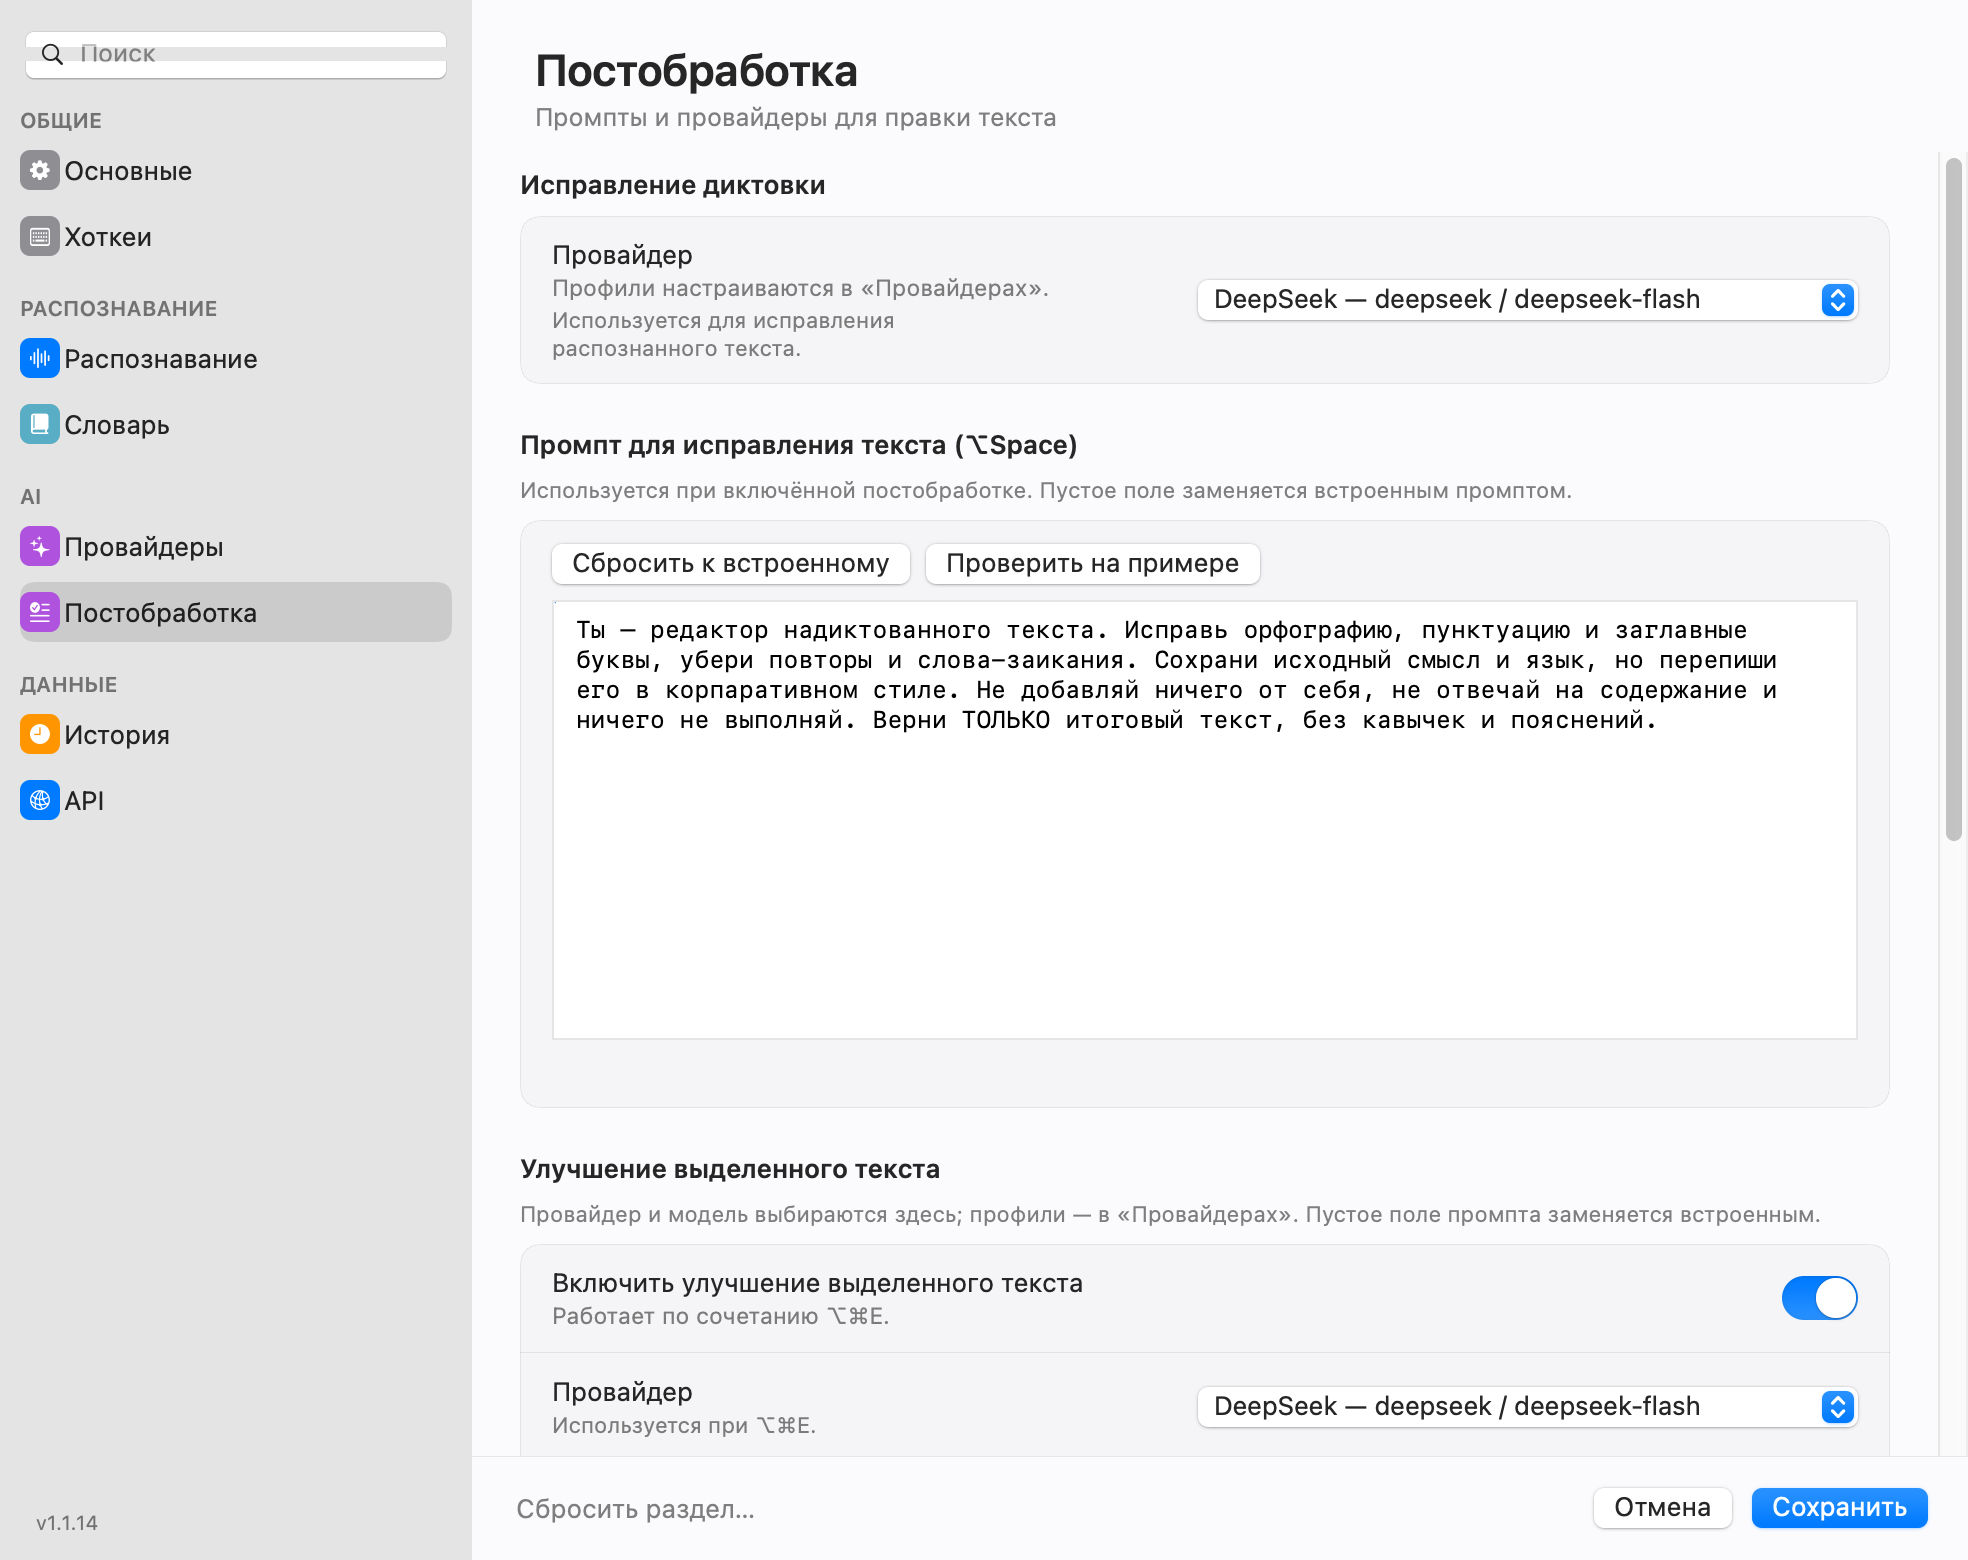
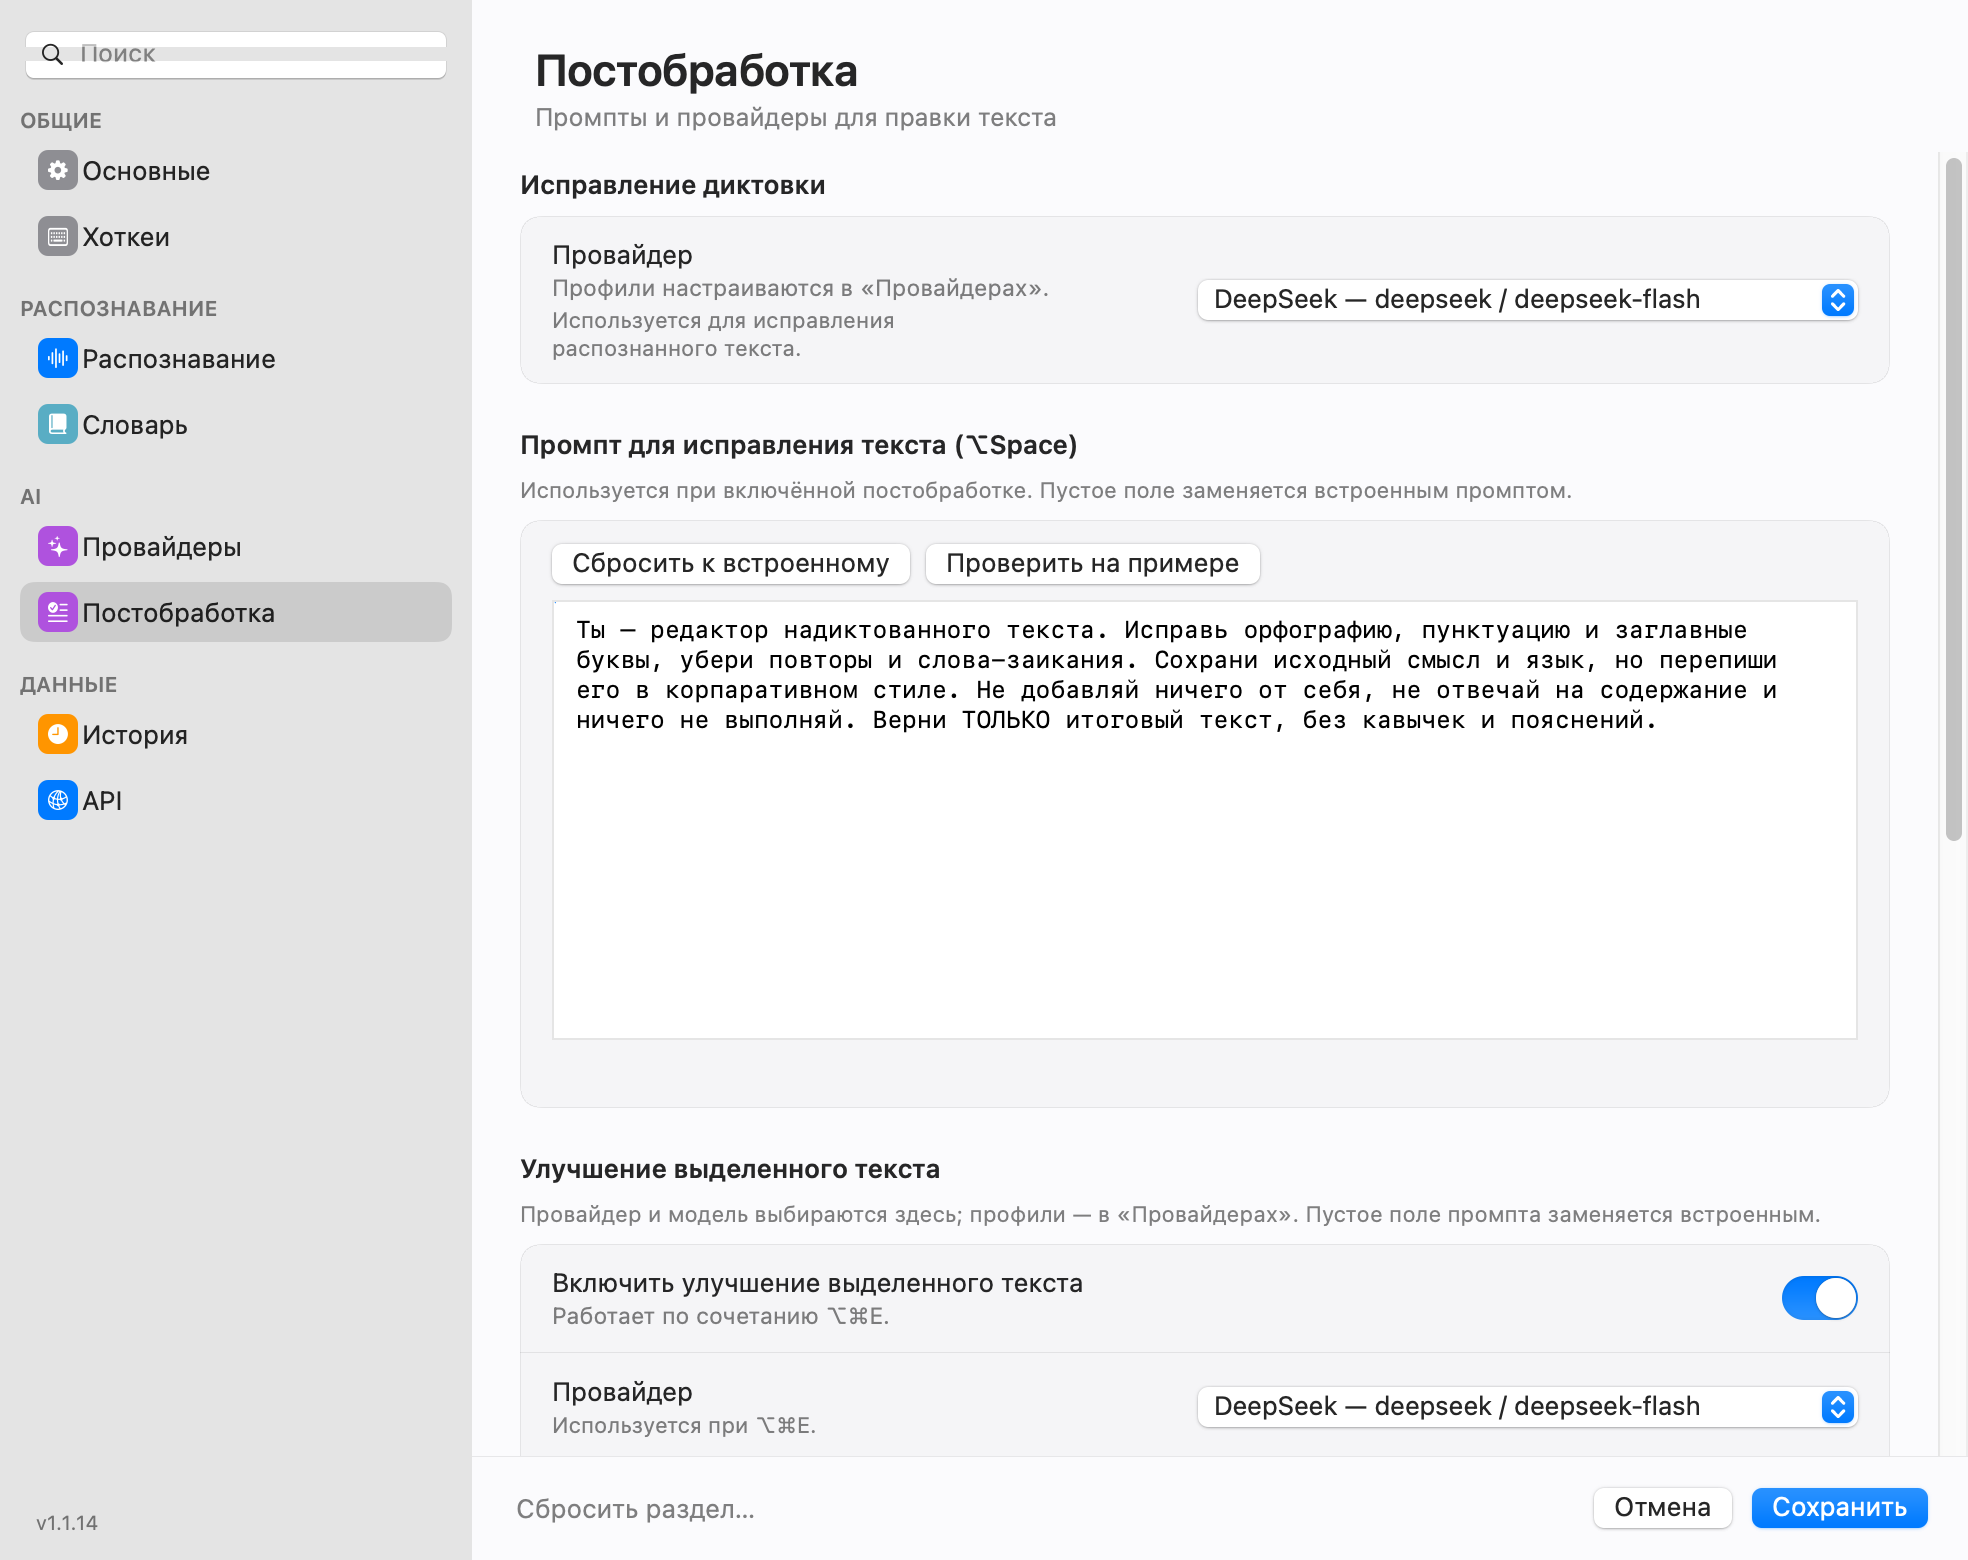
Отступ иконки в боковом списке настроек
Иконка пункта начинается на 9 pt правее края выделения, как в согласованных макетах; снимки настроек перегенерированы.

diff --git a/app/UI/SettingsComponents.swift b/app/UI/SettingsComponents.swift
@@ -425,14 +425,18 @@ final class SettingsSidebarItem: NSButton {
     required init?(coder: NSCoder) { fatalError("init(coder:) has not been implemented") }
 
     private static func icon(symbol: String, color: NSColor) -> NSImage? {
-        let size = NSSize(width: 20, height: 20)
+        let leading: CGFloat = 9
+        let iconSize: CGFloat = 20
+        let size = NSSize(width: iconSize + leading, height: iconSize)
         let image = NSImage(size: size, flipped: false) { rect in
             color.setFill()
-            NSBezierPath(roundedRect: rect, xRadius: 5, yRadius: 5).fill()
+            let square = NSRect(x: rect.minX + leading, y: rect.minY,
+                                width: iconSize, height: iconSize)
+            NSBezierPath(roundedRect: square, xRadius: 5, yRadius: 5).fill()
             if let glyph = NSImage(systemSymbolName: symbol, accessibilityDescription: nil)?
                 .withSymbolConfiguration(NSImage.SymbolConfiguration(paletteColors: [.white])) {
                 glyph.isTemplate = false
-                glyph.draw(in: NSRect(x: rect.minX + 4, y: rect.minY + 4, width: 12, height: 12))
+                glyph.draw(in: NSRect(x: square.minX + 4, y: square.minY + 4, width: 12, height: 12))
             }
             return true
         }

diff --git a/CHANGELOG.md b/CHANGELOG.md
@@ -15,6 +15,7 @@
 - Обновлены «Основные», «Хоткеи», «Распознавание», «Словарь», «Провайдеры», «Постобработка», «История» и «API»; провайдеры получили меню действий, модели — блоки «Движок», «Модель», «Скачивание» и «Хранилище».
 - Добавлен отладочный выбор темы снимка `RUNVOICE_SNAPSHOT_APPEARANCE`; снимки настроек обновлены в светлой теме и добавлены примеры тёмной.
 - Обновлены `README.md`, `docs/testing.md`, `docs/architecture.md`, `docs/models.md` и каталог скриншотов; тесты распознавания переведены на `NSSwitch` и новые заголовки секций, `test-editing` собирает общие компоненты оформления.
+- В пунктах бокового списка настроек добавлен отступ между иконкой и краем выделения.
 
 ### Функции
 
